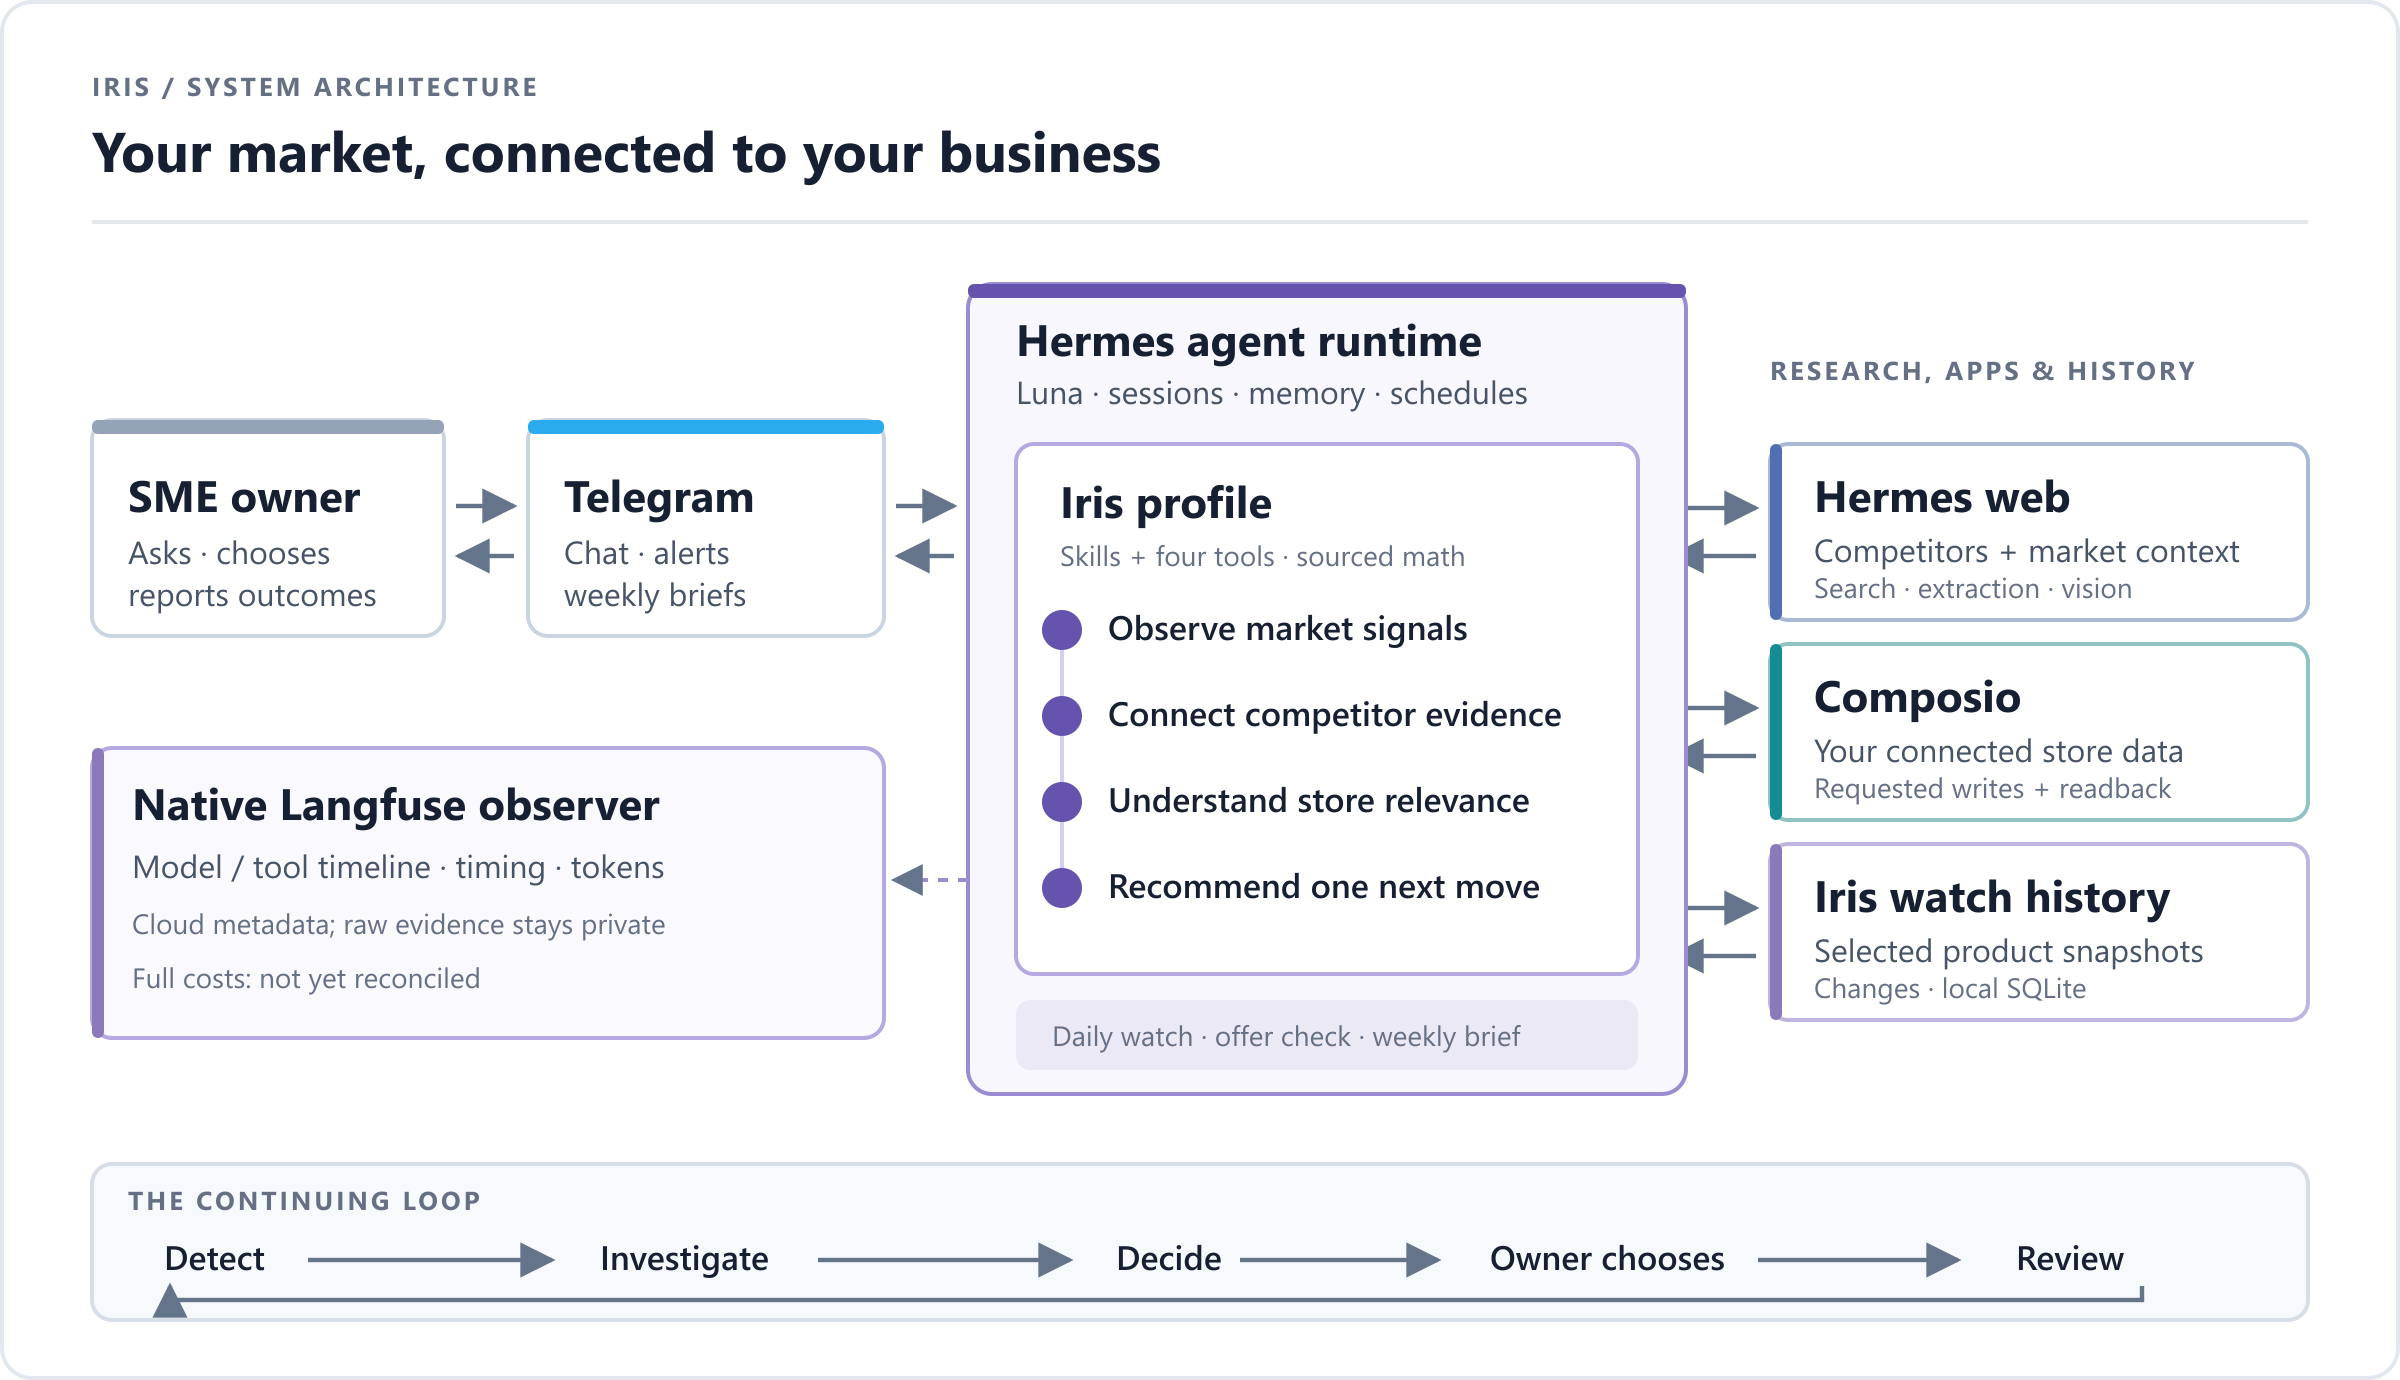
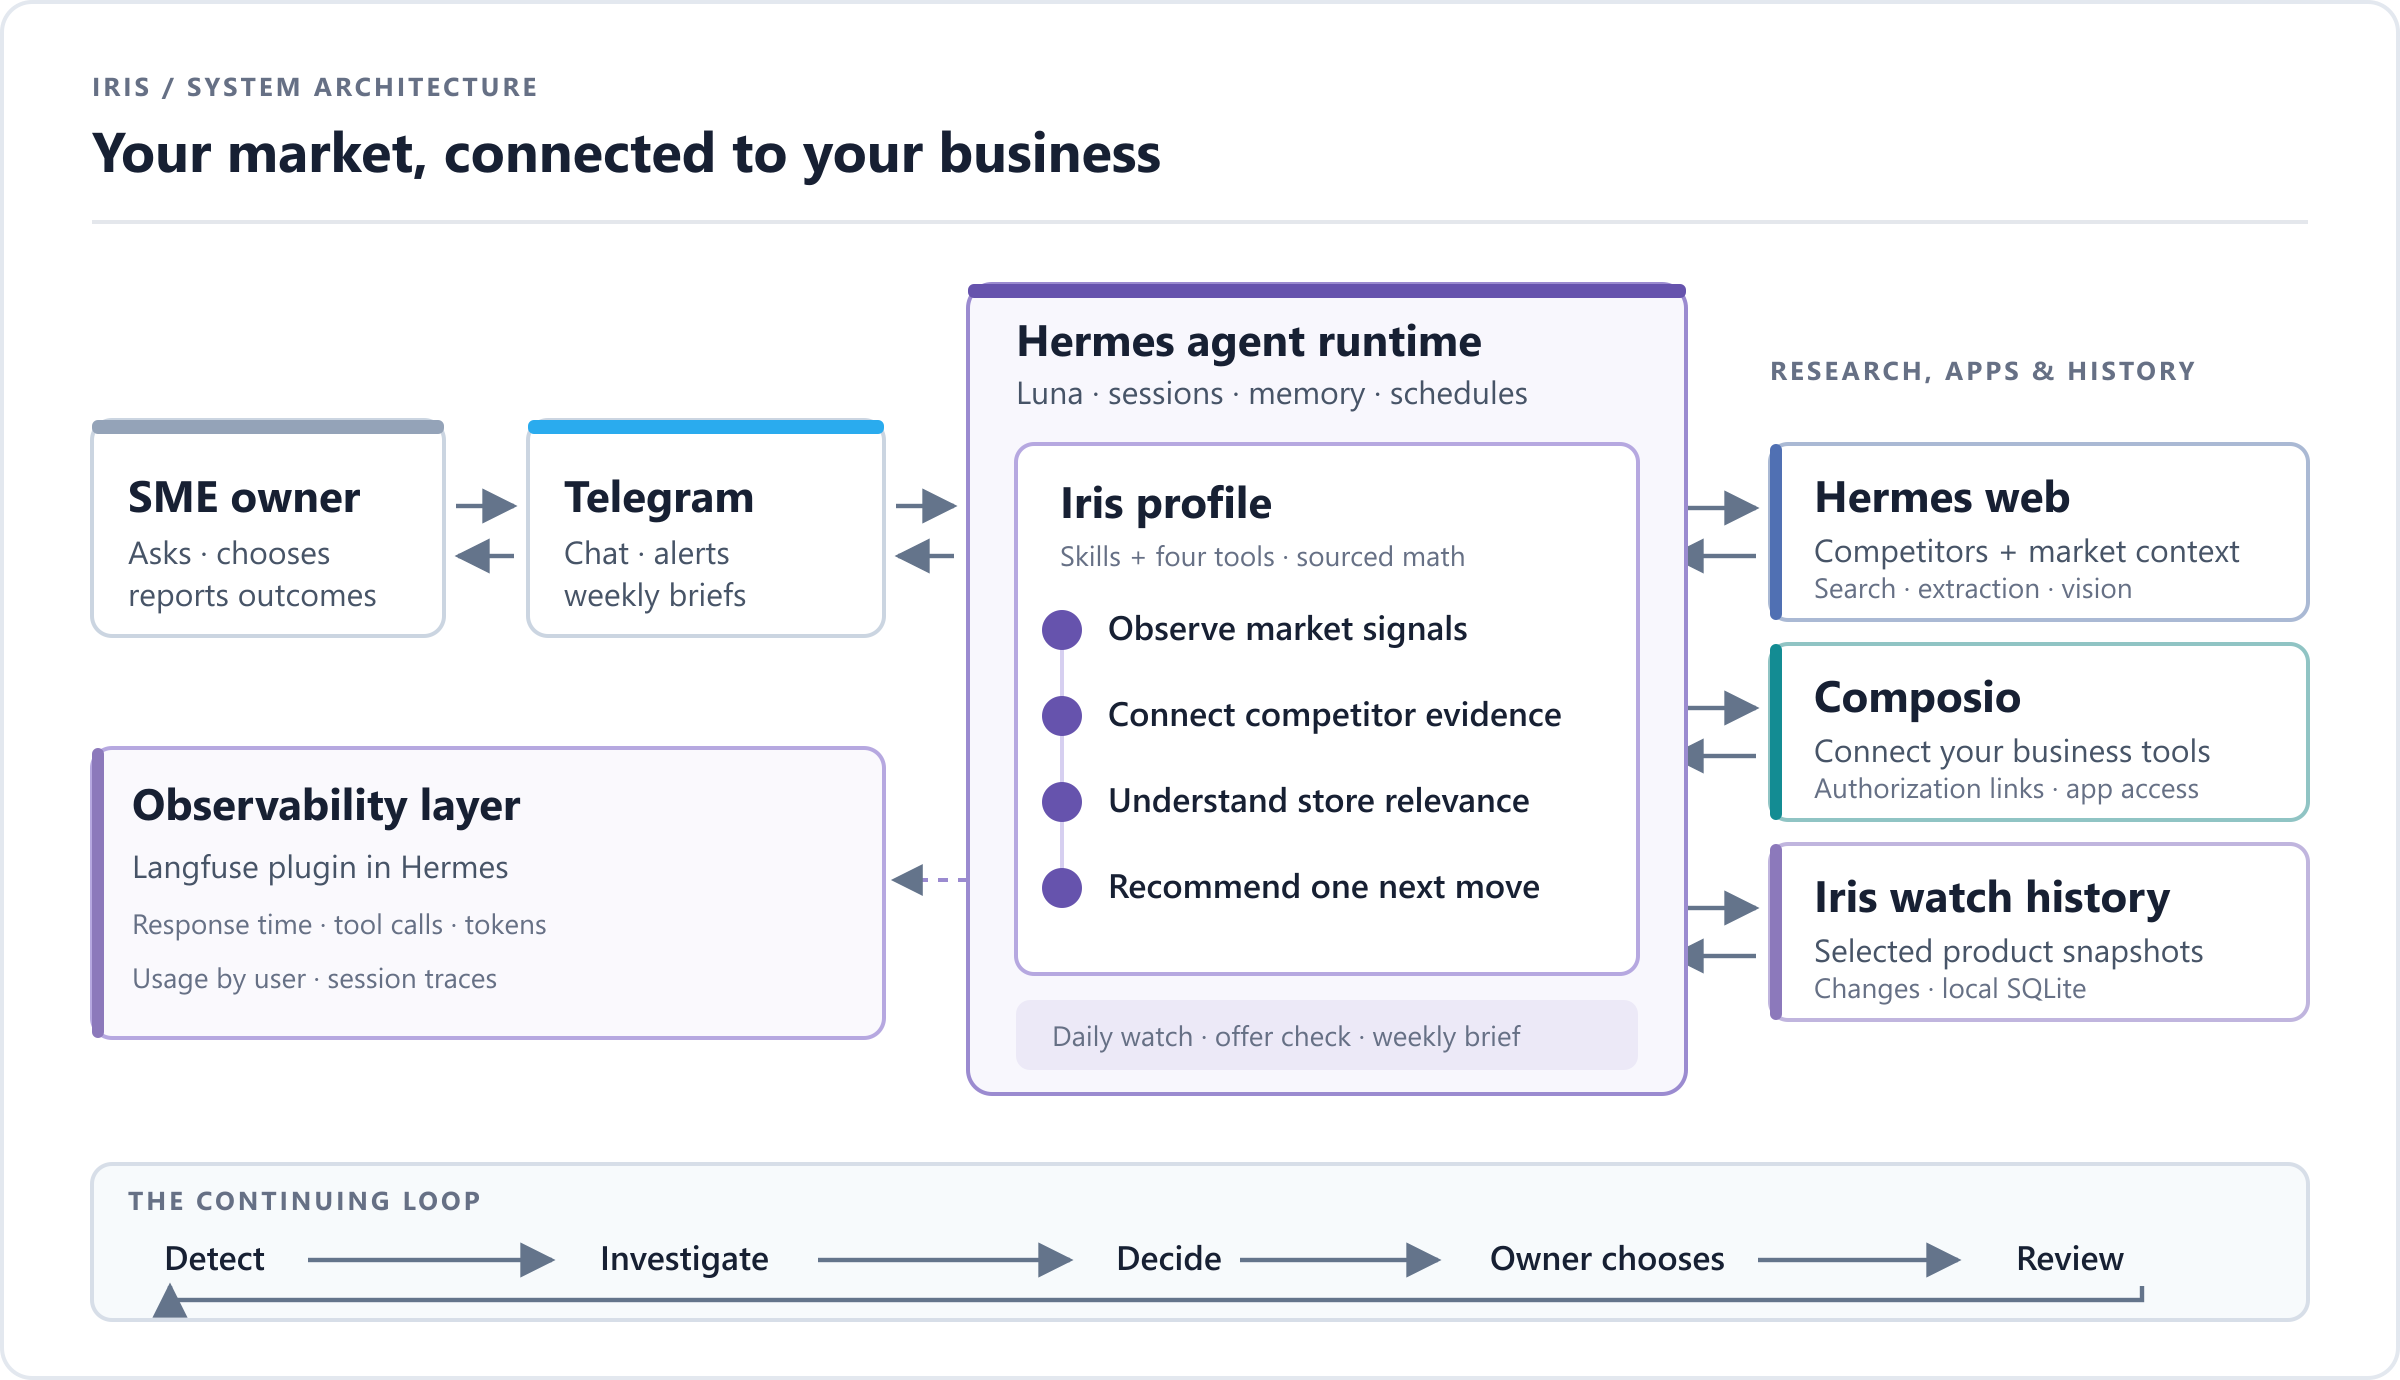
Clarify tool connections and observability for judges

Changed region(s): [[0.0625, 0.5609, 0.2812, 0.7167], [0.75, 0.5297, 0.9062, 0.592]]

diff --git a/README.md b/README.md
@@ -10,9 +10,9 @@
 <p align="center">
   <a href="#business-value">Business value</a> ·
   <a href="#how-iris-helps">Capabilities</a> ·
+  <a href="#connect-your-tools">Connect your tools</a> ·
   <a href="#architecture">Architecture</a> ·
   <a href="#observability">Observability</a> ·
-  <a href="docs/DEMO.md">Demo plan</a> ·
   <a href="#run-iris">Run Iris</a>
 </p>
 
@@ -40,7 +40,7 @@ These match the hackathon’s [published business-impact criteria](docs/HACKATHO
 | Ask Iris | The work she supports |
 | --- | --- |
 | **“What should I know about my market this week?”** | Bring selected watch history and new research into a briefing with sources, priorities and coverage gaps. |
-| **“What is Infinity offering, and how do the other stores compare?”** | Investigate public products, offers and availability; compare relevant alternatives across competitors. |
+| **“What are my competitors offering, and how do we compare?”** | Investigate public products, offers and availability; compare relevant alternatives across competitors. |
 | **“What might explain this move?”** | Look for official explanations and relevant context, distinguishing confirmed facts from hypotheses. |
 | **“What makes sense for my store?”** | Connect findings to your catalog, stock, costs and goals; recommend a practical next step and draft copy when asked. |
 | **“What did we decide, and did it help?”** | Remember your chosen move and review the results you report against a baseline. |
@@ -50,9 +50,28 @@ request. Current listings show public activity. Dated observations support chang
 Competitor sales and hidden motives need their own evidence.
 [Product promise and boundaries](docs/PRODUCT.md).
 
+## Connect your tools
+
+> **“Iris, connect my Shopify store.”**
+
+For apps supported by [Composio Connect](https://docs.composio.dev/docs/composio-connect),
+Iris finds the integration and guides you through connecting your account:
+
+1. **Ask Iris** to connect the tool you use.
+2. **Open the authorization link** Iris receives from Composio and shares in the chat.
+3. **Approve access** through Composio’s connection flow.
+4. **Continue with Iris.** She verifies the connection, then uses the app for your requested task.
+
+**Ask → Authorize → Verify → Use**
+
+Your catalog, spreadsheet or other supported business tool becomes context Iris can work
+with. Connecting an app is separate from choosing which catalog or sheet she should use.
+[Connection flow](https://docs.composio.dev/toolkits/meta-tools/manage_connections) ·
+[Setup](docs/SETUP.md).
+
 ## Architecture
 
-![Iris architecture: Hermes and the Iris profile connect the owner to competitor research, native Composio, selected-product history, calculations and native Langfuse tracing.](assets/architecture.png)
+![Iris architecture: Hermes runs Iris, Composio connects business tools, and a Langfuse observability layer tracks response time, tool calls and usage.](assets/architecture.png)
 
 [Editable SVG](assets/architecture.svg)
 
@@ -61,38 +80,32 @@ Competitor sales and hidden motives need their own evidence.
 | [Hermes](https://github.com/NousResearch/hermes-agent) | Conversation, sessions, memory, native web research, vision, schedules and delivery. The tested deployment uses Luna and Telegram. |
 | Iris skills | Market investigations, interpretation, recommendations, requested drafts and reviews. Iris writes the business advice. |
 | Four Iris tools | `read_store`, `watchlist`, `market_changes`, `market_math`: structured public product facts, selected history and calculations. |
-| Native [Composio](https://composio.dev/) | Authorized connected-app reads and owner-requested changes. Scheduled checks only read apps. |
-| Native Langfuse plugin | Model and tool timelines, timing, usage and failures for operator review. |
+| Native [Composio](https://composio.dev/) | App discovery, authorization links and connected-app operations. Scheduled checks only read apps. |
+| Observability layer | Hermes’s Langfuse plugin records response time, model/tool calls and token usage, grouped by user and session. |
 
-Requested app changes require exact terms and readback through instructions; this release
-has no enforced transaction bridge, and live app writes remain unverified.
+For requested app changes, Iris confirms the terms and checks the saved result by readback.
+[Technical setup and boundaries](docs/SETUP.md).
 
 ## Observability
 
-Each investigation can be reviewed through its tool sequence, sources, final reply,
-elapsed time and token usage. Private source reports let us check whether the evidence
-supports the recommendation. Langfuse separates owner activity from private evaluations.
-Evaluation exports flag citations without a captured source read for review.
+**Follow a request from tool selection to the final response—and see where the time and tokens went.**
 
-The latest Cloud readback reconciles **12 private turns, 39 main model completions and
-53 tool requests**, with failed attempts tracked separately.
-[Recorded readback](docs/evidence/cloud-release-final.json).
+Iris has an observability layer powered by the [Langfuse plugin in Hermes](https://github.com/NousResearch/hermes-agent/tree/c1488ac947c9bc33fd65ec464548dc9d8edd6122/plugins/observability/langfuse).
+It records model and tool activity so we can inspect an investigation and improve it.
 
-Metadata capture keeps raw owner/app payloads out of Cloud. Actual provider charges and
-complete auxiliary usage are still unreconciled. Traces show what ran; source review
-establishes whether the answer was supported.
-[Tracing, costs and reliability](docs/OBSERVABILITY.md).
+| What we track | What it tells us |
+| --- | --- |
+| **Response time** | How long an agent turn takes and which model or tool calls account for the wait. |
+| **Tokens and model usage** | Input, output and reported cache usage for model calls. |
+| **Usage by user and session** | Activity grouped by the profile’s owner label and conversation, with evaluations labeled separately. |
+| **Tool calls, failures and retries** | The path Iris took, the sources she accessed and where execution needs attention. |
 
-## Current evidence
+Cloud traces use metadata capture; private session reports retain the source evidence for
+answer review. Evaluation exports also flag cited URLs without a captured source read.
 
-Native rehearsals demonstrate connected catalog reads, research across three businesses,
-requested Arabic drafting and fresh-session recall of a chosen move. Owner Telegram
-replies and sanitized execution records are also retained.
-
-**Broad briefing accuracy remains a release priority:** the latest rehearsal still made
-an unsupported promotion claim. Offline tests passing does not establish answer accuracy.
-Merchant impact has not been measured; the working demo recording and judge access route
-are still pending. [Replies and critique](docs/EVALUATION.md) · [Current status](docs/STATUS.md).
+[Inspect a recorded trace check](docs/evidence/cloud-release-final.json) ·
+[Tracing setup and reporting](docs/OBSERVABILITY.md) ·
+[Langfuse user tracking](https://langfuse.com/docs/observability/features/users).
 
 ## Run Iris
 
@@ -124,7 +137,7 @@ python tools/validate_repo.py
 - **A broader market picture:** stronger grouping across competitors and richer campaign, catalog and policy history.
 - **Proof of value:** a timed owner workflow, a working 2–3 minute demo and verified judge access.
 
-[Demo storyboard](docs/DEMO.md) · [Evidence priorities](docs/EVALUATION.md#highest-value-remaining-proof) · [Submission requirements](docs/HACKATHON_RULES.md).
+[Evidence priorities](docs/EVALUATION.md#highest-value-remaining-proof) · [Submission requirements](docs/HACKATHON_RULES.md).
 
 ## License
 

diff --git a/docs/STATUS.md b/docs/STATUS.md
@@ -36,9 +36,16 @@ journey preserves its original replies, timings and counts and flags the unread 
 URL. This improves review visibility; it does **not** repair the agent's answer. No runtime
 behavior or live profile was changed in this follow-up.
 
-The [demo plan](DEMO.md#measure-the-task-before-claiming-impact) now defines a paired task
+The private production plan defines a paired task
 comparison including source checking and correction time. Controlled demo trials, merchant
 outcomes and hypothetical revenue opportunities have separate labels.
+
+The public README now uses generic competitor examples, explains the Composio authorization
+flow, and presents the Langfuse integration as an **observability layer**. The architecture
+SVG and PNG use the same wording. The production storyboard and measurement worksheet are
+preserved outside the public repository; public links to the internal plan are removed.
+The two pinned-runtime tracing patches remain documented under `patches/`; their token and
+owner/evaluation user-label checks still pass on the tested Hermes installation.
 
 ## What has been observed
 
@@ -103,7 +110,8 @@ trace still need verification. [Telegram evidence](EVALUATION.md#owner-telegram-
 
 ## Submission work still requiring evidence
 
-1. Record the **2–3 minute working demo** using the multi-source [storyboard](DEMO.md).
+1. Record the **2–3 minute working demo**: market briefing, competitor investigation,
+   store priority, requested copy and fresh-session recall.
 2. Verify a separate judge run/access route and time it; the owner bot stays restricted.
 3. Measure a real SME workflow against the manual task, including correction time, then
    prepare the impact slides. No verified time/cost/revenue improvement is claimed.

diff --git a/patches/README.md b/patches/README.md
@@ -1,0 +1,19 @@
+# Hermes tracing fixes
+
+These two small patches correct the Langfuse plugin in the tested Hermes runtime
+(`c1488ac`). They support Iris’s observability layer; they do not change market research
+or the model’s answers.
+
+| Patch | Why it exists |
+| --- | --- |
+| [Token total](hermes-langfuse-token-total.patch) | Supplies the canonical total so reasoning tokens already included in output are not counted twice. |
+| [User labels](hermes-langfuse-user-id.patch) | Carries the configured owner/evaluation label onto the trace and its model/tool observations, enabling usage review by user. |
+
+Both corrections are applied to the tested runtime and checked by
+[`check_langfuse_usage.py`](../tools/check_langfuse_usage.py). They are retained so another
+operator can reproduce the tracing setup. They are only needed when the installed Hermes
+version lacks these corrections; they are not applied automatically by the Iris profile.
+
+Check the installed version and back up the plugin before applying a patch. See
+[observability setup](../docs/OBSERVABILITY.md#two-pinned-runtime-corrections) for commands
+and verification.

diff --git a/assets/README.md b/assets/README.md
@@ -11,7 +11,7 @@ generated with the built-in image generation tool on 30 September 2026.
 [PNG](architecture.png): 2400 × 1380.
 [Editable SVG](architecture.svg): 1200 × 690. Render at 2× after edits.
 The white/slate/violet diagram shows the owner, Hermes, native Composio, four Iris tools,
-selected-product history, calculations and native Langfuse tracing.
+selected-product history, calculations and the Langfuse observability layer.
 
 The obsolete illustrative video and impact slide drafts were archived outside this repository.
-The [current demo storyboard](../docs/DEMO.md) describes the working recording still required.
+The [current status](../docs/STATUS.md) tracks the working recording still required.
